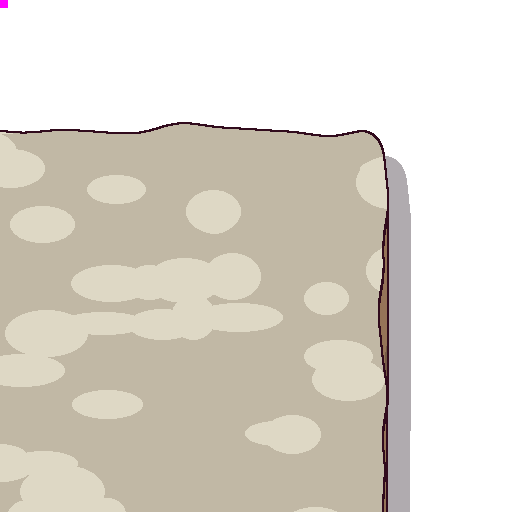
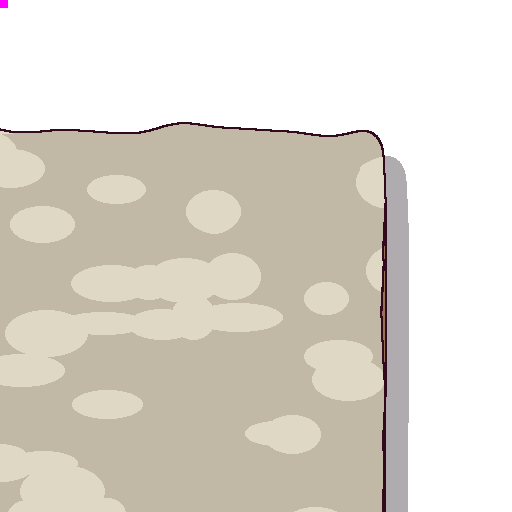
E1-9: сегменты обрыва — тень без разрыва на границе ячеек, ровнее боковые кромки (WIP)
Кромка и тень считаются на поле с запасом вокруг ячейки и обрезаются:
тень у подножия больше не рвётся на стыке сегментов. Лист пересобран.

Changed region(s): [[0.7188, 0.3125, 0.8125, 1.0], [0.7188, 0.25, 0.75, 0.2812]]

diff --git a/tools/art_stage1_build.py b/tools/art_stage1_build.py
@@ -272,48 +272,51 @@ def _wob(t: np.ndarray, seed: int, amp: float = 7.0) -> np.ndarray:
     return out * amp
 
 
+PAD = 64   # поле вокруг ячейки: кромка и тень считаются с продолжением к соседям, потом обрезаются
+
+
 def plateau_mask(name: str) -> np.ndarray:
-    yy, xx = np.mgrid[0:CELL, 0:CELL].astype(np.float32)
+    """Маска площадки на поле (CELL + 2·PAD)²: формулы кромок продолжаются за ячейку так же, как у соседа."""
+    n = CELL + 2 * PAD
+    yy, xx = np.mgrid[0:n, 0:n].astype(np.float32) - PAD
     s = yy < EDGE + _wob(xx, 11)              # площадка севернее южной кромки
-    n = yy >= EDGE + _wob(xx, 12)
-    w = xx >= EDGE + _wob(yy, 13)             # площадка восточнее западной кромки
-    e = xx < CELL - EDGE + _wob(yy, 14)
-    m = {"s": s, "n": n, "w": w, "e": e,
-         "outer_sw": s & w, "outer_se": s & e, "outer_nw": n & w, "outer_ne": n & e,
-         "inner_sw": s | w, "inner_se": s | e, "inner_nw": n | w, "inner_ne": n | e,
+    nn = yy >= EDGE + _wob(xx, 12)
+    w = xx >= EDGE + _wob(yy, 13, 3.0)        # площадка восточнее западной кромки
+    e = xx < CELL - EDGE + _wob(yy, 14, 3.0)
+    m = {"s": s, "n": nn, "w": w, "e": e,
+         "outer_sw": s & w, "outer_se": s & e, "outer_nw": nn & w, "outer_ne": nn & e,
+         "inner_sw": s | w, "inner_se": s | e, "inner_nw": nn | w, "inner_ne": nn | e,
          "end_w": s, "end_e": s}[name]
-    # скруглить углы: размытие и порог (края ячейки продолжаются повтором крайних строк)
-    pad = 48
-    big = np.pad(m.astype(np.float32), pad, mode="edge")
-    big = _blur(big, 14)
-    return big[pad:-pad, pad:-pad] > 0.5
+    # скруглить углы: размытие и порог
+    big = np.pad(m.astype(np.float32), 48, mode="edge")
+    return _blur(big, 14)[48:-48, 48:-48] > 0.5
 
 
 def make_cliff(name: str, top: Image.Image, face: Image.Image) -> Image.Image:
     P = plateau_mask(name)
-    topa = np.asarray(top.convert("RGB")).astype(np.float32)
-    facea = np.asarray(face.convert("RGB")).astype(np.float32)
-    xx = np.arange(CELL)
+    n = P.shape[0]
+    idx = (np.arange(n) - PAD) % CELL
+    topa = np.asarray(top.convert("RGB")).astype(np.float32)[idx][:, idx]
+    facea = np.asarray(face.convert("RGB")).astype(np.float32)[:, idx]
+    xx = np.arange(n) - PAD
     # высота стенки по столбцам: у торцов сходит на нет
-    hcol = np.full(CELL, FACE_H, np.float32)
+    hcol = np.full(n, FACE_H, np.float32)
     if name == "end_w":
         hcol = np.clip((xx - 24) / (CELL - 24), 0, 1) ** 0.8 * FACE_H
     if name == "end_e":
         hcol = np.clip((CELL - 24 - xx) / (CELL - 24), 0, 1) ** 0.8 * FACE_H
-    # расстояние вниз от южной кромки площадки: d[y, x] = сколько px выше лежит ближайший пиксель площадки
-    d = np.full((CELL, CELL), 9999, np.int32)
-    last = np.full(CELL, -9999, np.int32)
-    for y in range(CELL):
+    # расстояние вниз от южной кромки площадки: d[y, x] = на сколько px выше лежит ближайший пиксель площадки
+    d = np.full((n, n), 9999, np.int32)
+    last = np.full(n, -9999, np.int32)
+    for y in range(n):
         last = np.where(P[y], y, last)
         d[y] = y - last
     is_face = (~P) & (d >= 1) & (d <= hcol[None, :])
     body = P | is_face
-    out = np.zeros((CELL, CELL, 4), np.float32)
+    out = np.zeros((n, n, 4), np.float32)
     # тень: у подножия стенки и справа от восточной кромки (свет сверху слева)
-    sh = np.zeros((CELL, CELL), bool)
-    sh[:, :] = np.roll(body, (26, 22), axis=(0, 1))
-    sh[:26, :] = False      # перенос np.roll через край ячейки не нужен
-    sh[:, :22] = False
+    sh = np.zeros((n, n), bool)
+    sh[26:, 22:] = body[:-26, :-22]
     shadow = sh & ~body
     out[shadow] = (24, 10, 20, 255 * 0.34)
     # верх
@@ -322,22 +325,22 @@ def make_cliff(name: str, top: Image.Image, face: Image.Image) -> Image.Image:
     out[P, 3] = 255
     # лицо: строка полосы — по глубине (растянуто на высоту столбца), нижняя часть темнее (вторая ступень)
     ys, xs = np.nonzero(is_face)
-    v = np.clip((d[ys, xs] - 1) / np.maximum(hcol[xs], 1) * (FACE_H - 1), 0, FACE_H - 1).astype(np.int32)
-    col = facea[v, xs]
-    rel = (d[ys, xs] - 1) / np.maximum(hcol[xs], 1)
-    col = col * np.where(rel > 0.62, 0.78, 1.0)[:, None]
-    out[ys, xs, :3] = col
+    relv = (d[ys, xs] - 1) / np.maximum(hcol[xs], 1)
+    v = np.clip(relv * (FACE_H - 1), 0, FACE_H - 1).astype(np.int32)
+    out[ys, xs, :3] = facea[v, xs] * np.where(relv > 0.62, 0.78, 1.0)[:, None]
     out[ys, xs, 3] = 255
     # светлая кромка у южного края площадки и контур
-    lip = P & ~np.roll(P, -10, axis=0)
-    lip[-10:, :] = False
+    lip = P.copy()
+    lip[:-10] &= ~P[10:]
+    lip[-10:] = False
     out[lip, :3] = np.clip(out[lip, :3] * 1.12 + 14, 0, 255)
-    edge_p = P & ~ap.shrink(np.pad(P, 6, mode="edge"), 2)[6:-6, 6:-6]            # край площадки, 2 px внутрь
-    edge_b = body & ~ap.shrink(np.pad(body, 6, mode="edge"), 2)[6:-6, 6:-6]      # низ и бока стенки
-    brow = is_face & (d <= 3)                                                     # линия под кромкой
+    edge_p = P & ~ap.shrink(P, 2)             # край площадки, 2 px внутрь
+    edge_b = body & ~ap.shrink(body, 2)       # низ и бока стенки
+    brow = is_face & (d <= 3)                 # линия под кромкой
     line = edge_p | edge_b | brow
     out[line, :3] = OUTLINE
     out[line, 3] = 255
+    out = out[PAD:-PAD, PAD:-PAD]
     return Image.fromarray(np.clip(out + 0.5, 0, 255).astype(np.uint8), "RGBA")
 
 
